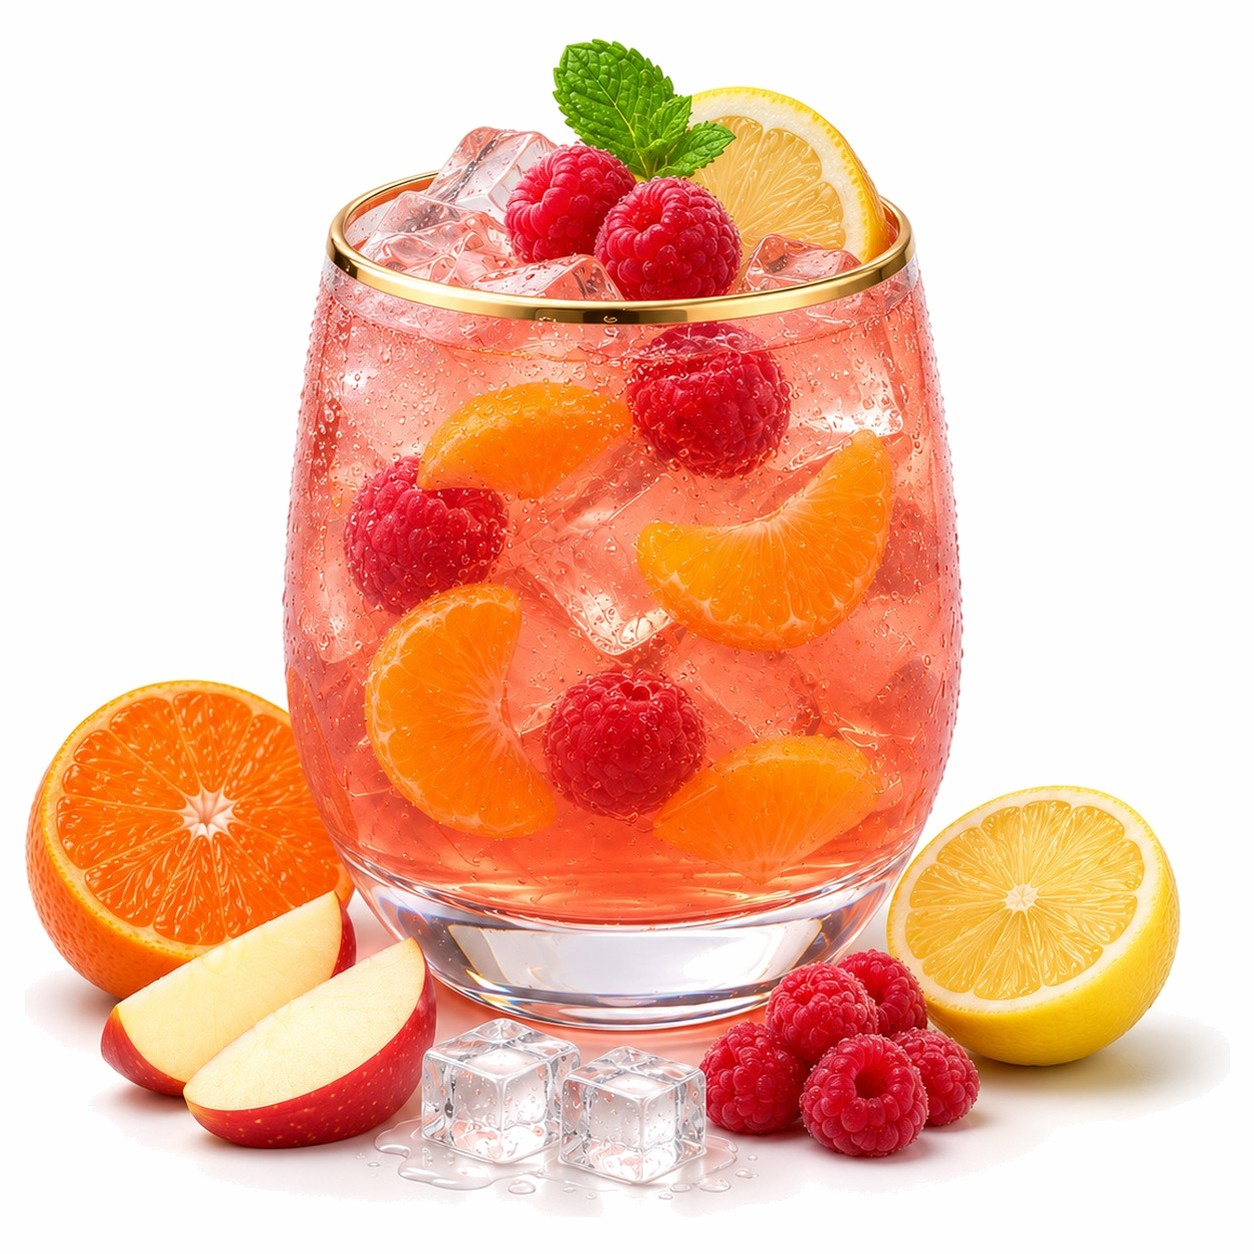
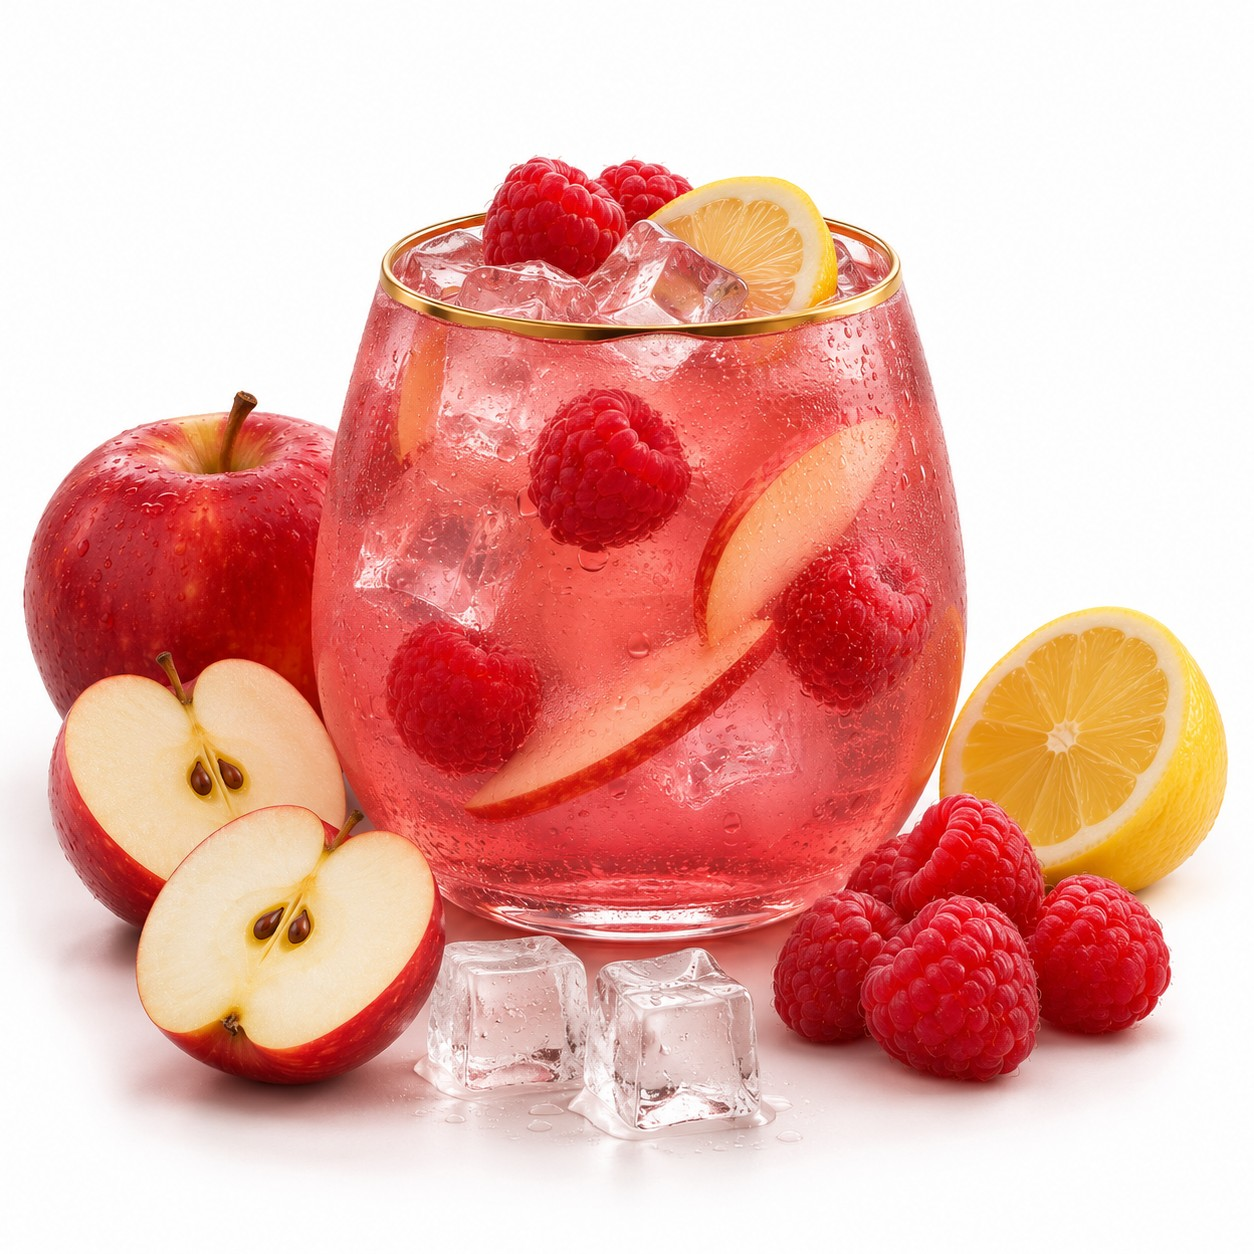
E-shop: Červánkové nebe – nová hlavní fotka bez mandarinky a máty
Claude-Session: https://claude.ai/code/session_016QL8fwi582oSosBu6SYFuT

diff --git a/dashboard/lib/eshop/productImages.ts b/dashboard/lib/eshop/productImages.ts
@@ -112,6 +112,7 @@ const BACKDROP: Record<string, string> = {
   "/eshop/ovocne-napoje/malinovy-svarak-nealko-begina-v2.jpg": "#fefefe",
   "/eshop/polevky/gulasova-polevka-z-hlivy-ustricne-begina.jpg": "#fefefe",
   "/eshop/ovocne-napoje/cervankove-nebe-hlavni-v2.jpg": "#fefefe",
+  "/eshop/ovocne-napoje/cervankove-nebe-hlavni-v3.jpg": "#fefefe",
   "/eshop/ovocne-napoje/cervankove-nebe-begina-v2.jpg": "#fefefe",
   // 14. 11. 2026: větší beginy u koktejlů, Dům u jezera s beginou
   "/eshop/koktejly/lady-carneval-begina-v3.jpg": "#fefefe",
